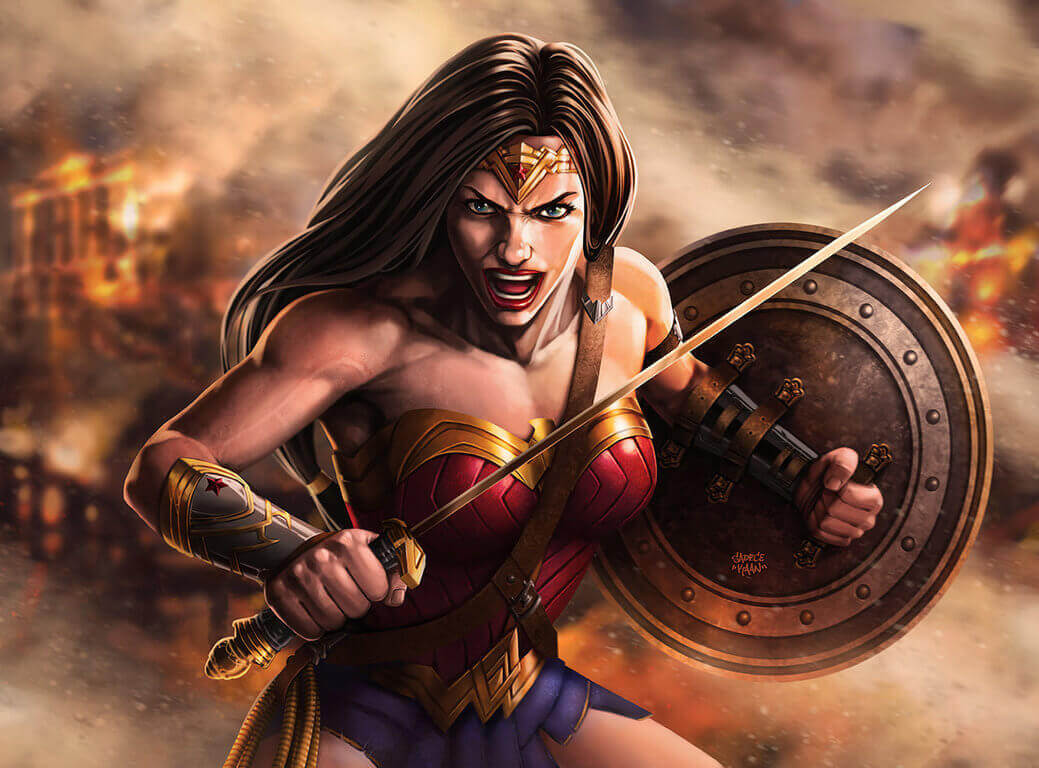
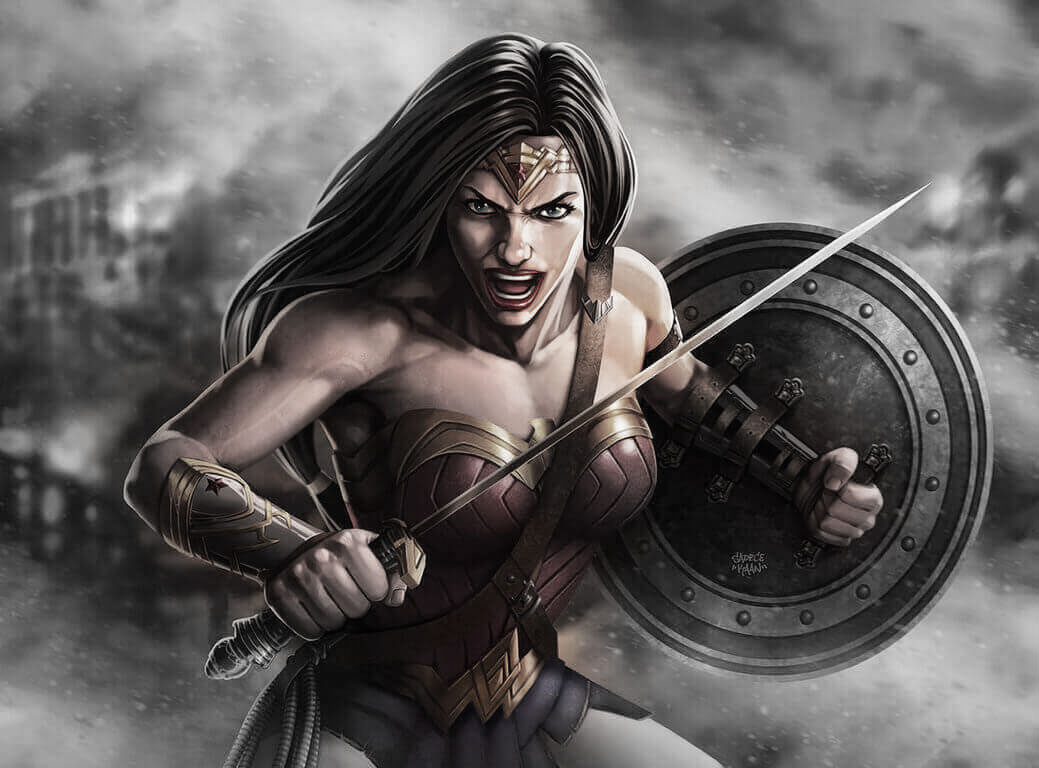
bg img replaced, effect b&w plus contrast in bg imgs

diff --git a/src/scss/menu/bg.scss b/src/scss/menu/bg.scss
@@ -2,8 +2,7 @@
   background-position: center;
   background-repeat: no-repeat;
   background-size: cover;
-  background-blend-mode: luminosity;
-  filter: grayscale(100%);
+  background-blend-mode: darken;
   width: 100%;
   height: 100vh;
   position: absolute;
@@ -20,7 +19,7 @@
     transform: scale(1);
     opacity: 0.25;
     @media (min-width: 992px) {
-      animation: bg-grey 6s linear 2s forwards;
+      animation: bg-grey 5s linear 2s forwards;
     }
   }
   &.highlight {
@@ -28,43 +27,35 @@
   }
   &.superman {
     background-image: url(#{$bgImgPath}/superman_bg.jpg);
-    background-color: $blueSuperman;
   }
   &.batman {
     background-image: url(#{$bgImgPath}/batman_bg.jpg);
-    background-color: $greyBatman;
   }
   &.wonderwoman {
     background-image: url(#{$bgImgPath}/wonderwoman_bg.jpg);
-    background-color: $orangeWonder;
   }
   &.flash {
     background-image: url(#{$bgImgPath}/flash_bg.jpg);
-    background-color: $redFlash;
   }
   &.greenlantern {
     background-image: url(#{$bgImgPath}/greenlantern_bg.jpg);
-    background-color: $greenLantern;
   }
   &.greenarrow {
     background-image: url(#{$bgImgPath}/greenarrow_bg.jpg);
-    background-color: $greenArrow;
   }
   &.aquaman {
     background-image: url(#{$bgImgPath}/aquaman_bg.jpg);
-    background-color: $yellowAquaman;
   }
   &.cyborg {
     background-image: url(#{$bgImgPath}/cyborg_bg.jpg);
-    background-color: $redCyborg;
   }
 }
 
 @keyframes bg-grey {
   0% {
-    filter: grayscale(100%);
+    filter: grayscale(0) contrast(100%);
     }
-    100% {
-    filter: grayscale(50%);
+  100% {
+    filter: grayscale(100%) contrast(170%);
   }
 }
